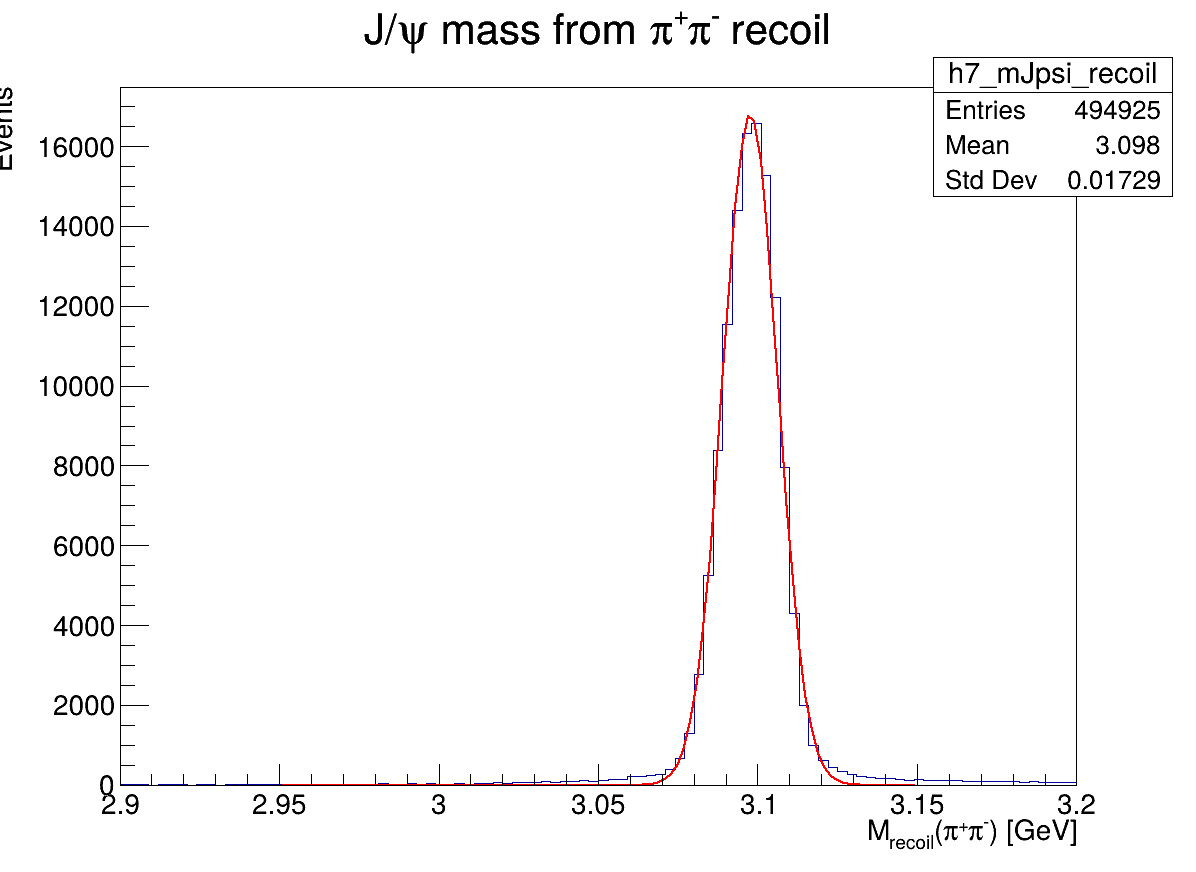
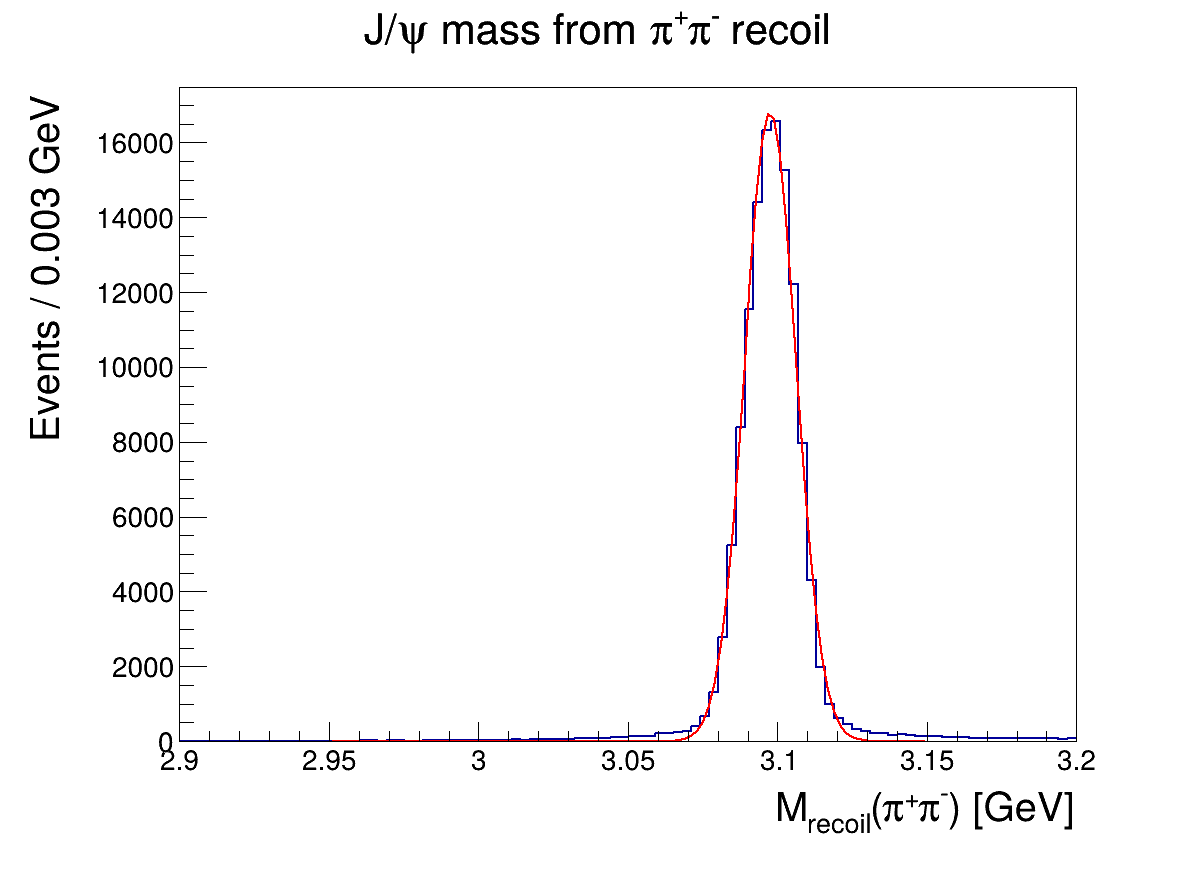
changed style of all plots; added kinematic region line to Dalitz plot

diff --git a/part1_PID/ZcAnalysis.C b/part1_PID/ZcAnalysis.C
@@ -27,19 +27,19 @@ using ROOT::Math::VectorUtil::CosTheta; // angle between two four-vectors
 //=============================================================================
 
 // decide which graphs should be plotted
-bool task_2_1 = true;
-bool task_2_2 = true;
-bool task_2_3 = true;
-bool task_3_1_and_3_2 = true;
-bool task_3_3 = true;
-bool task_3_5 = true;
+bool task_2_1 = false;
+bool task_2_2 = false;
+bool task_2_3 = false;
+bool task_3_1_and_3_2 = false;
+bool task_3_3 = false;
+bool task_3_5 = false;
+bool task_3_6 = true;
 
 void ZcAnalysis::Loop(TString savePath)
 {
     // Some settings
     gROOT->SetBatch(true); // no graphical output during execution
-    // gStyle->SetOptStat(0); // no statistics box on histograms
-
+    gStyle->SetOptStat(0); // no statistics box on histograms
 
     //=============================================================================
     // All histogram definitions should be placed here:
@@ -66,6 +66,8 @@ void ZcAnalysis::Loop(TString savePath)
     TH1D* h8_mass_mumu = nullptr;
     TH1D* h8_mass_pipi = nullptr;
     TH1D* h8_mass_recoil = nullptr;
+    // TASK 3.6
+    TH2D* h9_dalitz = nullptr;
 
     // PDG masses in GeV/c^2
     const double electron_mass = 0.000510998946;
@@ -91,7 +93,7 @@ void ZcAnalysis::Loop(TString savePath)
     // TASK 2.1: Histogram for the absolute momentum of all charged tracks
     if (task_2_1) {
         h1_pTracks = new TH1D("h1absMomentum", 
-            "Absolute momentum of charged tracks;|p| [GeV];Events / 0.025 GeV", 
+            "Absolute momentum of charged tracks;|p| [GeV];Events", 
             100, 0, 2.5
         );
     }
@@ -161,7 +163,15 @@ void ZcAnalysis::Loop(TString savePath)
         h8_mass_recoil = new TH1D("h8_mass_recoil", "Invariant mass spectra;Mass [GeV];Events", 200,0,4);
     }
 
-    
+    // TASK 3.6: Dalitz plot
+    if (task_3_6) {
+        h9_dalitz = new TH2D(
+            "h_dalitz",
+            "Dalitz Plot; m^{2}(#pi^{+}#pi^{-}); m^{2}(J/#psi #pi)",
+            300, 0, 1.5,
+            200, 9, 18
+        );
+    }
     
 
 
@@ -266,26 +276,49 @@ void ZcAnalysis::Loop(TString savePath)
             }
         }
 
-        // Fill combined mass histograms
-        if (intNumberElectrons == 2 && intNumberMuons == 0) {
-            P4M ee = e_plus + e_minus;
-            h8_mass_ee->Fill(ee.M());
-        }
-        if (intNumberElectrons == 0 && intNumberMuons == 2) {
-            P4M mumu = mu_plus + mu_minus;
-            h8_mass_mumu->Fill(mumu.M());
-        }
-        P4M pipi = pion_plus + pion_minus;
-        h8_mass_pipi->Fill(pipi.M());
-        // recoil mass
-        P4E recoil = pCMS - pipi;
-        h8_mass_recoil->Fill(recoil.M());
-
         // TASK 3.3
         if (task_3_3) {
+            P4M pipi = pion_plus + pion_minus;
+            P4E recoil = pCMS - pipi;
             h7_mJpsi_pion_recoil->Fill(recoil.M());
-            if (!((intNumberElectrons == 2 && intNumberMuons == 0) || (intNumberElectrons == 0 && intNumberMuons == 2)))
-                continue;
+        }
+
+        // TASK 3.5
+        if (task_3_5) {
+            // Fill combined mass histograms
+            if (intNumberElectrons == 2 && intNumberMuons == 0) {
+                P4M ee = e_plus + e_minus;
+                h8_mass_ee->Fill(ee.M());
+            }
+            if (intNumberElectrons == 0 && intNumberMuons == 2) {
+                P4M mumu = mu_plus + mu_minus;
+                h8_mass_mumu->Fill(mumu.M());
+            }
+            P4M pipi = pion_plus + pion_minus;
+            h8_mass_pipi->Fill(pipi.M());
+            // recoil mass
+            P4E recoil = pCMS - pipi;
+            h8_mass_recoil->Fill(recoil.M());
+        }
+
+        // TASK 3.6
+        if (task_3_6) {
+
+            P4M jpsi;
+
+            if (intNumberElectrons == 2) {
+                jpsi = e_plus + e_minus;
+            }
+            else {
+                jpsi = mu_plus + mu_minus;
+            }
+
+            double m2_pipi = (pion_plus + pion_minus).M2();
+            double m2_jpsi_pi_plus  = (jpsi + pion_plus).M2();
+            double m2_jpsi_pi_minus = (jpsi + pion_minus).M2();
+
+            h9_dalitz->Fill(m2_pipi, m2_jpsi_pi_plus);
+            h9_dalitz->Fill(m2_pipi, m2_jpsi_pi_minus);
         }
 
         //=============================================================================
@@ -301,6 +334,13 @@ void ZcAnalysis::Loop(TString savePath)
     // TASK 2.1: Absolute momentum of all charged tracks
     if (task_2_1) {
         TCanvas* canvas = new TCanvas(); // Create an empty canvas
+        h1_pTracks->SetLineWidth(2); // thicker histogram line
+        gPad->SetLeftMargin(0.15);
+        gPad->SetBottomMargin(0.15);
+        h1_pTracks->GetYaxis()->SetTitleSize(0.05);
+        h1_pTracks->GetXaxis()->SetTitleSize(0.05);
+        double binWidth =  h1_pTracks->GetBinWidth(1);
+        h1_pTracks->GetYaxis()->SetTitle(Form("Events / %.3f GeV", binWidth));
         h1_pTracks->Draw(); // Draw the histogram on the canvas
         // Save the canvas under the save path (set in the run.sh script)
         canvas->SaveAs(savePath + "1_absoluteMomentum.png"); // You can use .png or .pdf or ...
@@ -310,11 +350,24 @@ void ZcAnalysis::Loop(TString savePath)
     if (task_2_2) {
         {
         TCanvas* canvas = new TCanvas();
+        h2_eEMC->SetLineWidth(2);
+        gPad->SetLeftMargin(0.15);
+        gPad->SetBottomMargin(0.15);
+        h2_eEMC->GetYaxis()->SetTitleSize(0.05);
+        h2_eEMC->GetXaxis()->SetTitleSize(0.05);
+        double binWidth =  h1_pTracks->GetBinWidth(1);
+        h2_eEMC->GetYaxis()->SetTitle(Form("Events / %.3f GeV", binWidth));
         h2_eEMC->Draw();
         canvas->SaveAs(savePath + "2_EEMC_leptons.png");
         }
         {
         TCanvas* canvas = new TCanvas();
+        h3_eEMC_vs_MUC->SetLineWidth(2);
+        gPad->SetLeftMargin(0.15);
+        gPad->SetRightMargin(0.15);
+        gPad->SetBottomMargin(0.15);
+        h3_eEMC_vs_MUC->GetYaxis()->SetTitleSize(0.05);
+        h3_eEMC_vs_MUC->GetXaxis()->SetTitleSize(0.05);
         h3_eEMC_vs_MUC->Draw("COLZ");
         canvas->SaveAs(savePath + "3_EEMC_vs_MUC.png");
         }
@@ -325,6 +378,17 @@ void ZcAnalysis::Loop(TString savePath)
         TCanvas* canvas = new TCanvas();
 
         h4_eEMC_over_pMDC_e->SetLineColor(kRed);
+        h4_eEMC_over_pMDC_e->SetLineWidth(2);
+        gPad->SetLeftMargin(0.15);
+        gPad->SetBottomMargin(0.15);
+        h4_eEMC_over_pMDC_e->GetYaxis()->SetTitleSize(0.05);
+        h4_eEMC_over_pMDC_e->GetXaxis()->SetTitleSize(0.05);
+
+        double binWidth =  h4_eEMC_over_pMDC_e->GetBinWidth(1);
+        h4_eEMC_over_pMDC_e->GetYaxis()->SetTitle(Form("Events / %.3f GeV", binWidth));
+
+        h4_eEMC_over_pMDC_e->Draw("COLZ");
+
         h4_eEMC_over_pMDC_mu->SetLineColor(kBlue);
         h4_eEMC_over_pMDC_pi->SetLineColor(kGreen+2);
 
@@ -348,6 +412,15 @@ void ZcAnalysis::Loop(TString savePath)
 
                 f_single->SetParameters(25000, 3.097, 0.012);
 
+                h5_Jpsi_mass_muon->SetLineWidth(2);
+                gPad->SetLeftMargin(0.15);
+                gPad->SetBottomMargin(0.15);
+                h5_Jpsi_mass_muon->GetYaxis()->SetTitleSize(0.05);
+                h5_Jpsi_mass_muon->GetXaxis()->SetTitleSize(0.05);
+
+                double binWidth =  h5_Jpsi_mass_muon->GetBinWidth(1);
+                h5_Jpsi_mass_muon->GetYaxis()->SetTitle(Form("Events / %.3f GeV", binWidth));
+
                 h5_Jpsi_mass_muon->Draw();
 
                 h5_Jpsi_mass_muon->Fit(f_single, "R");
@@ -367,11 +440,16 @@ void ZcAnalysis::Loop(TString savePath)
                     2.9, 3.2);
 
                 // set reasonable starting values: mass ≃3.097, narrow width few MeV,
-                // broader width maybe a few × larger
                 f_double->SetParameters(1000, 3.097, 0.005,   200, 3.097, 0.020);
 
-                // optionally fix the second mean equal to the first if desired:
-                // f_fit->FixParameter(4,3.097);
+                h5_Jpsi_mass_muon->SetLineWidth(2);
+                gPad->SetLeftMargin(0.15);
+                gPad->SetBottomMargin(0.15);
+                h5_Jpsi_mass_muon->GetYaxis()->SetTitleSize(0.05);
+                h5_Jpsi_mass_muon->GetXaxis()->SetTitleSize(0.05);
+
+                double binWidth =  h5_Jpsi_mass_muon->GetBinWidth(1);
+                h5_Jpsi_mass_muon->GetYaxis()->SetTitle(Form("Events / %.3f GeV", binWidth));
 
                 h5_Jpsi_mass_muon->Draw();
 
@@ -404,6 +482,15 @@ void ZcAnalysis::Loop(TString savePath)
                 1.5,    // alpha (tail transition)
                 2.0     // n (tail exponent)
             );
+
+            h6_Jpsi_mass_electron->SetLineWidth(2);
+            gPad->SetLeftMargin(0.15);
+            gPad->SetBottomMargin(0.15);
+            h6_Jpsi_mass_electron->GetYaxis()->SetTitleSize(0.05);
+            h6_Jpsi_mass_electron->GetXaxis()->SetTitleSize(0.05);
+
+            double binWidth =  h6_Jpsi_mass_electron->GetBinWidth(1);
+            h6_Jpsi_mass_electron->GetYaxis()->SetTitle(Form("Events / %.3f GeV", binWidth));
 
             h6_Jpsi_mass_electron->Draw();
 
@@ -441,6 +528,15 @@ void ZcAnalysis::Loop(TString savePath)
 
             h7_mJpsi_pion_recoil->Fit(f_gaus,"R");
 
+            h7_mJpsi_pion_recoil->SetLineWidth(2);
+            gPad->SetLeftMargin(0.15);
+            gPad->SetBottomMargin(0.15);
+            h7_mJpsi_pion_recoil->GetYaxis()->SetTitleSize(0.05);
+            h7_mJpsi_pion_recoil->GetXaxis()->SetTitleSize(0.05);
+
+            double binWidth =  h7_mJpsi_pion_recoil->GetBinWidth(1);
+            h7_mJpsi_pion_recoil->GetYaxis()->SetTitle(Form("Events / %.3f GeV", binWidth));
+
             h7_mJpsi_pion_recoil->Draw();
 
             canvas->SaveAs(savePath + "7_mJpsi_recoil_from_pions_gaussian.png");
@@ -469,6 +565,12 @@ void ZcAnalysis::Loop(TString savePath)
 
             h7_mJpsi_pion_recoil->Fit(f_voigt,"R");
 
+            h7_mJpsi_pion_recoil->SetLineWidth(2);
+            gPad->SetLeftMargin(0.15);
+            gPad->SetBottomMargin(0.15);
+            h7_mJpsi_pion_recoil->GetYaxis()->SetTitleSize(0.05);
+            h7_mJpsi_pion_recoil->GetXaxis()->SetTitleSize(0.05);
+
             h7_mJpsi_pion_recoil->Draw();
 
             canvas->SaveAs(savePath + "7_mJpsi_recoil_from_pions_voigt.png");
@@ -476,6 +578,7 @@ void ZcAnalysis::Loop(TString savePath)
         
     }
 
+    // TASK 3.5
     if (task_3_5) {
         TCanvas* canvas = new TCanvas("canvas_mass","canvas_mass",1200,900);
         h8_mass_ee->SetLineColor(kRed);
@@ -492,6 +595,12 @@ void ZcAnalysis::Loop(TString savePath)
         
         double binWidth = h8_mass_ee->GetBinWidth(1);
 
+        h8_mass_ee->SetLineWidth(2);
+        gPad->SetLeftMargin(0.15);
+        gPad->SetBottomMargin(0.15);
+        h8_mass_ee->GetYaxis()->SetTitleSize(0.05);
+        h8_mass_ee->GetXaxis()->SetTitleSize(0.05);
+
         h8_mass_ee->GetYaxis()->SetTitle(Form("Events / %.3f GeV", binWidth));
 
         h8_mass_ee->Draw();
@@ -507,5 +616,61 @@ void ZcAnalysis::Loop(TString savePath)
         legend->Draw();
         
         canvas->SaveAs(savePath + "8_all_mass_spectra.png");
+    }
+
+    // TASK 3.6
+    if (task_3_6) {
+        TCanvas* c_dalitz = new TCanvas();
+        h9_dalitz->Draw("COLZ");
+
+        // overlay the kinematic boundary
+        const double M  = sqrt_s;      // total CM energy
+        const double m1 = pion_mass;
+        const double m2 = pion_mass;
+        const double m3 = 3.0969;
+
+        std::vector<double> x;
+        std::vector<double> y_min;
+        std::vector<double> y_max;
+
+        for (double s12 = pow(2*pion_mass,2); s12 < pow(M - m3,2); s12 += 0.005)
+        {
+            double sqrt_s12 = sqrt(s12);
+
+            double E2 = (s12 - m1*m1 + m2*m2) / (2*sqrt_s12);
+            double E3 = (M*M - s12 - m3*m3) / (2*sqrt_s12);
+
+            double p2 = sqrt(E2*E2 - m2*m2);
+            double p3 = sqrt(E3*E3 - m3*m3);
+
+            double s23_max = pow(E2+E3,2) - pow(p2-p3,2);
+            double s23_min = pow(E2+E3,2) - pow(p2+p3,2);
+
+            x.push_back(s12);
+            y_min.push_back(s23_min);
+            y_max.push_back(s23_max);
+        }
+
+        TGraph* g_min = new TGraph(x.size(), &x[0], &y_min[0]);
+        TGraph* g_max = new TGraph(x.size(), &x[0], &y_max[0]);
+
+        g_min->SetLineColor(kRed);
+        g_max->SetLineColor(kRed);
+
+        g_min->SetLineWidth(3);
+        g_max->SetLineWidth(3);
+
+        double binWidth = h9_dalitz->GetBinWidth(1);
+
+        h9_dalitz->SetLineWidth(2);
+        gPad->SetLeftMargin(0.15);
+        gPad->SetBottomMargin(0.15);
+        h9_dalitz->GetYaxis()->SetTitleSize(0.05);
+        h9_dalitz->GetXaxis()->SetTitleSize(0.05);
+
+        g_min->Draw("L SAME");
+        g_max->Draw("L SAME");
+
+        c_dalitz->SaveAs(savePath + "9_dalitz_plot.png");
     }
 }
